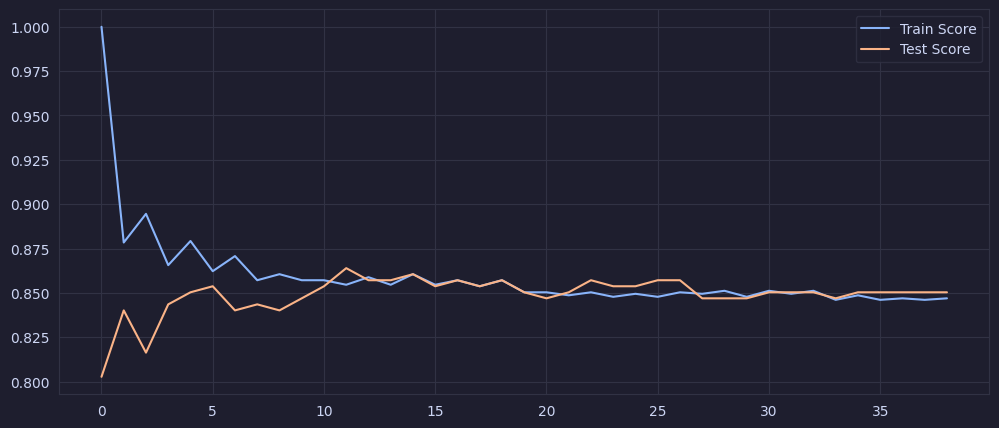
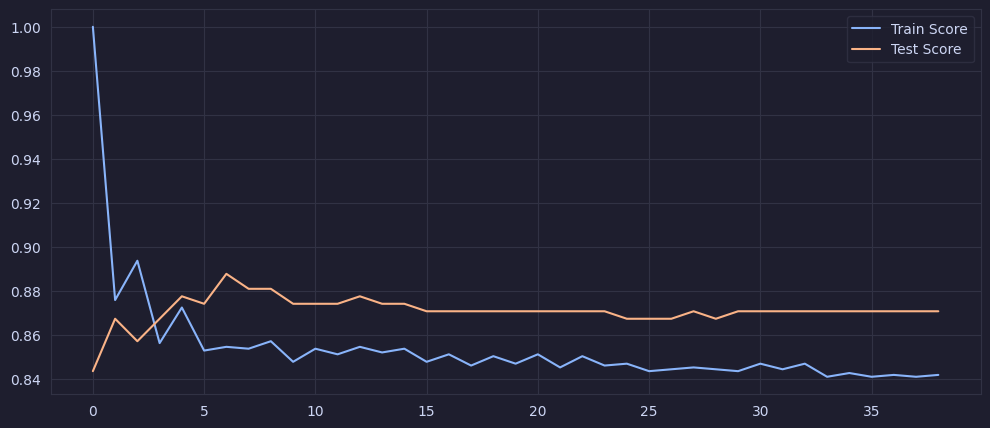
changed some test stuff

diff --git a/scripts/attrition.py b/scripts/attrition.py
@@ -87,7 +87,7 @@ print("y_test shape:", y_test.shape)
 
 clf.fit(X_train, y_train)
 print("model score: %.3f" % clf.score(X_test, y_test))'''
-classifier = KNeighborsClassifier(n_neighbors=11, metric = "manhattan")
+classifier = KNeighborsClassifier(n_neighbors=15, metric = "manhattan")
 classifier.fit(X_train, np.ravel(y_train,order='C'))
 y_pred = classifier.predict(X_test)
 print(confusion_matrix(y_test, y_pred))
@@ -161,7 +161,7 @@ print(cv_scores)
 print(np.mean(cv_scores))
 scaler = StandardScaler()
 scaler.fit(X)
-'''# Train with 10 fold cross validation by an outer k value ranges and nested cross validation scores.
+# Train with 10 fold cross validation by an outer k value ranges and nested cross validation scores.
 X = scaler.transform(X)
 scores = []
 k_range = range(1, 40)
@@ -172,4 +172,4 @@ for k in k_range:
 #print each cv score (accuracy) and average them
     print(k)
     print(cv_scores)
-    print(np.mean(cv_scores))'''
+    print(np.mean(cv_scores))
